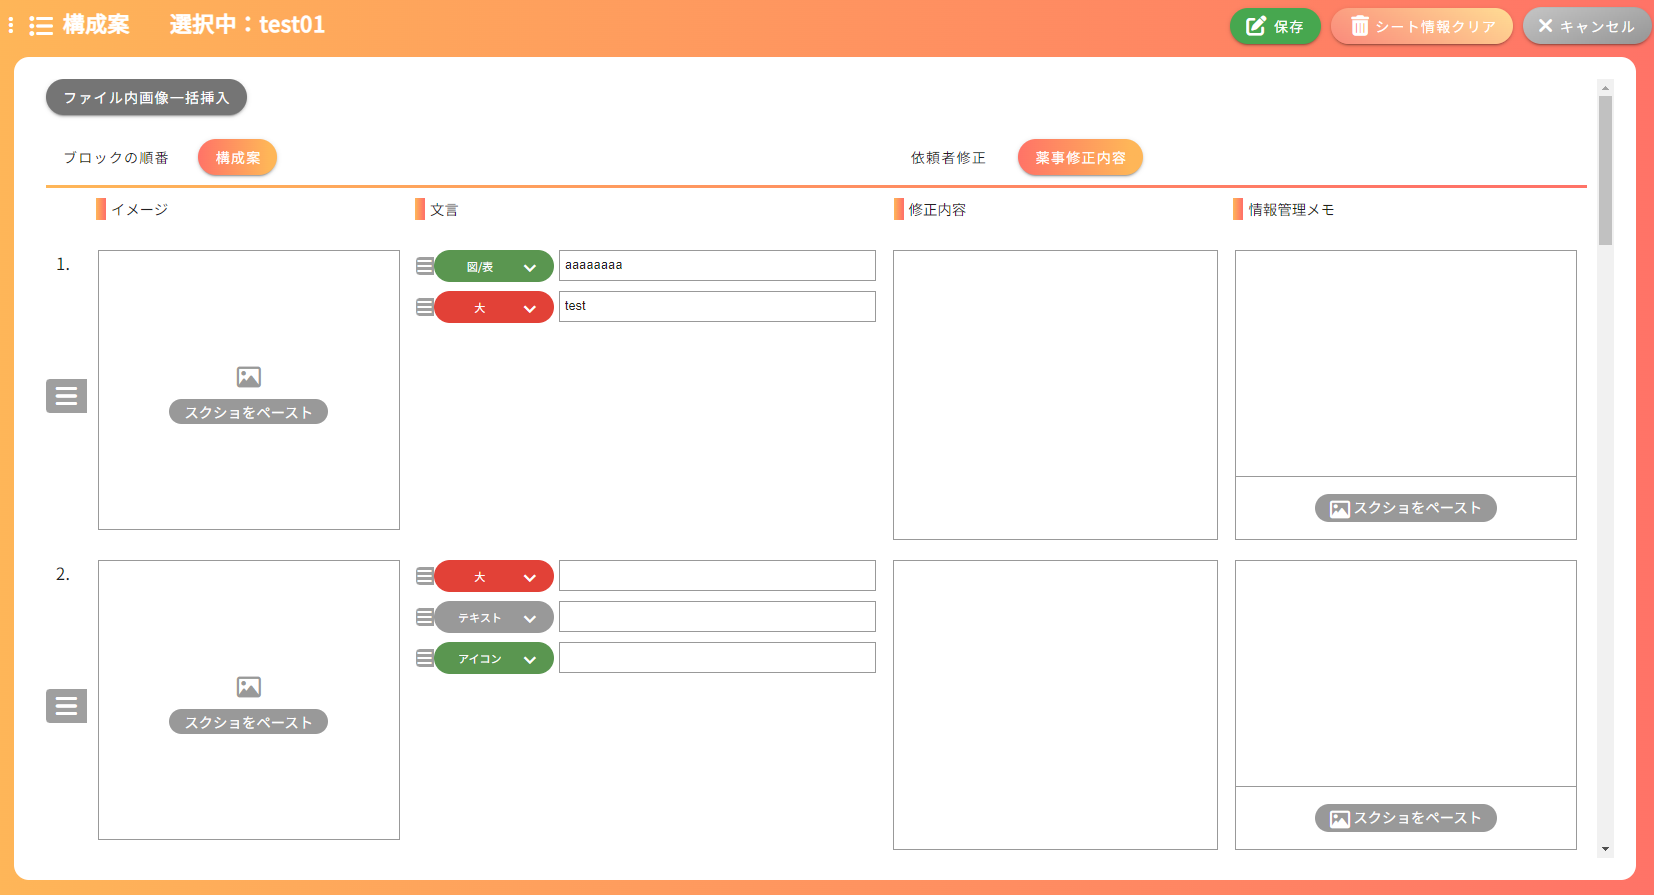
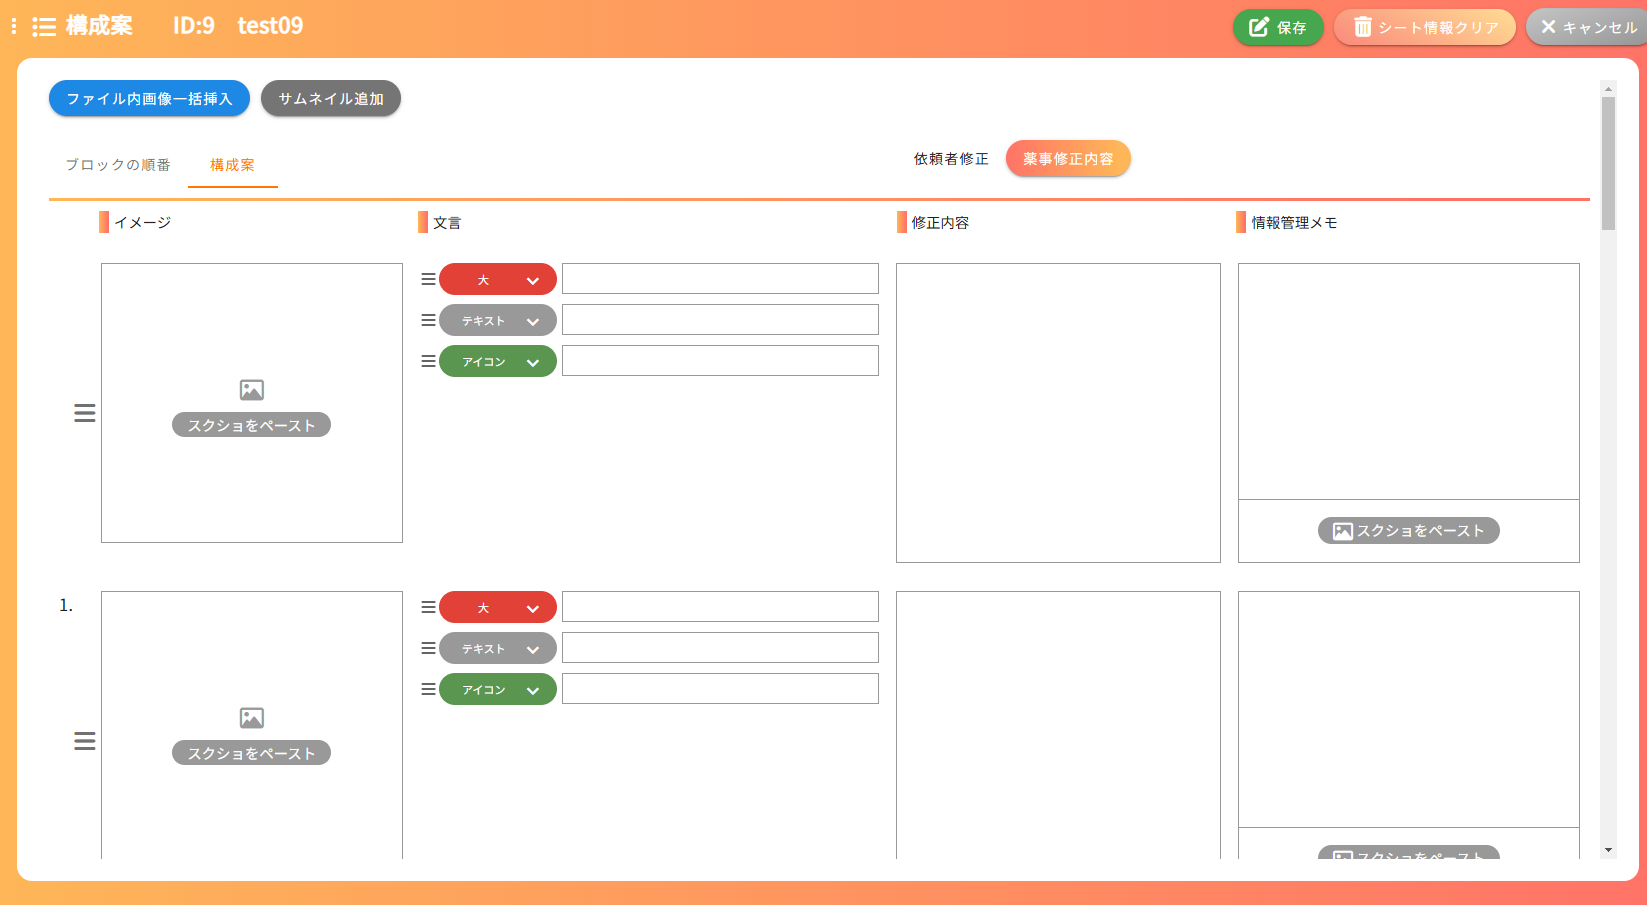
設計書修正 不具合修正

diff --git a/resources/js/views/ConstitutionPlan/ConstitutionPlan.vue b/resources/js/views/ConstitutionPlan/ConstitutionPlan.vue
@@ -745,6 +745,9 @@ export default {
             this.constitutionPlans = [];
             this.imagePaths = [];
             this.memos = [];
+            this.planThumbnails = [];
+            this.thumbnailImagePaths = [];
+            this.thumbnailMemos = [];
             this.save();
         },
         blockAdd(n,type){

diff --git a/docs/003.基本設計/002.画面設計書/構成案画面.md b/docs/003.基本設計/002.画面設計書/構成案画面.md
@@ -49,6 +49,7 @@
 | 36  | ×ボタン(情報管理画像)        | ボタン         |      |                |        |                                       |                                                    |                                                |
 | 37  | ×ボタン(構成)                | ボタン         |      |                |        |                                       |                                                    |                                                |
 | 38  | 追加バー(構成)               | ボタン         |      |                |        |                                       |                                                    |                                                |
+| 39  | サムネイル追加               | ボタン         |      |                |        |                                       |                                                    |                                                |
 
 
 ### 画面イベント
@@ -74,6 +75,8 @@
 | 18  | 5      | 入力値一括削除                                                     | put api/lp_easy_order/constitution_plan/{lpOrderId} |            | 空データで更新処理 |
 | 19   | 18     | 構成の並べ替え(構成案タブ)                                          |                                                     |            |                    |
 | 20   | 22     | 文言エリアの並べ替え                                                |                                                     |            |                    |
+| 21   | 39     | サムネイルの追加。基本機能は通常の構成案と同じ                        |                                                     |            |                    |
+| 21   | 19     | 画像の並べ替えが可能                        |                                                     |            |                    |
 
 ### 画面仕様
 - 初期表示時は構成案、薬事修正内容タブが選択された状態

diff --git a/docs/003.基本設計/002.画面設計書/HOME画面.md b/docs/003.基本設計/002.画面設計書/HOME画面.md
@@ -66,3 +66,4 @@
 - 「編集中」と表示されている所に「Ctrl + Alt + 右クリック」で編集ロックを強制解除することが出来る
   - 編集中に停電が起きたり、何らかの理由で編集ロックを解除できずに画面が閉じられてしまった際に利用する
   - このコマンドは制作事業部部長とリーダーにのみ共有しています
+- ローカルストレージでの検索文言の保持。他画面に遷移しても検索文言が保持される。
